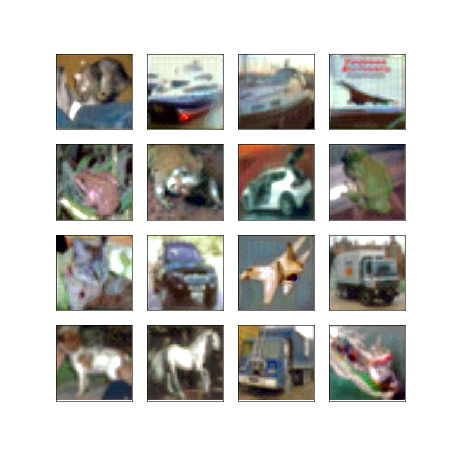
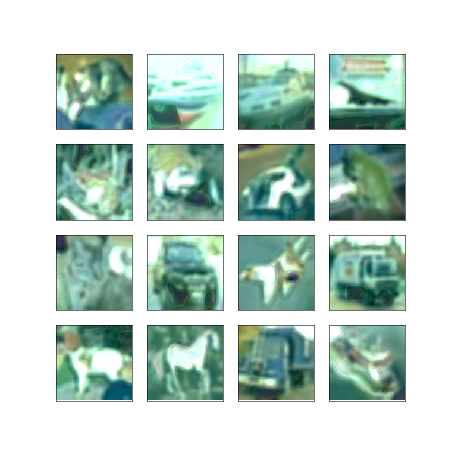
added original residual inference network based on a GitHub implementation

diff --git a/src/train_utils/train.py b/src/train_utils/train.py
@@ -1,4 +1,4 @@
-from ..model import StyleTransferModel
+from ..model import StyleTransferModel, ResidualStyleTransferModel
 import tensorflow as tf
 import matplotlib.pyplot as plt
 import numpy as np
@@ -7,11 +7,15 @@ import numpy as np
 class ModelTrainer:
     def __init__(self,
                  style_image,
+                 residual=False,
                  batch_size=32,
                  input_shape=(256, 256, 3),
                  n_classes=3):
-        self.transfer_model = StyleTransferModel(input_shape=input_shape,
-                                                 n_classes=n_classes)
+        if residual:
+            self.transfer_model = ResidualStyleTransferModel()
+        else:
+            self.transfer_model = StyleTransferModel(input_shape=input_shape,
+                                                     n_classes=n_classes)
         prep_style_image = tf.keras.applications.vgg16.preprocess_input(
             style_image)
         self.style_loss = self.transfer_model.loss_net(prep_style_image)
@@ -49,8 +53,8 @@ class ModelTrainer:
                                                            2)  # frob-norm
         total_var_loss = 1e-4 * tf.reduce_sum(tf.image.total_variation(reco))
         print('Style : ', style_final_loss)
-        print('Feature : ', feature_final_loss)
-        print('TV loss : ', total_var_loss)
+        print('Feat. : ', feature_final_loss)
+        print('TV-l. : ', total_var_loss)
         return style_final_loss + feature_final_loss + total_var_loss
 
     def _gram_matrix(self, tensor):
@@ -76,7 +80,7 @@ class ModelTrainer:
                 self.transfer_model.inference_net.trainable_variables))
 
     def train(self, images, lr=1e-2, epochs=1):
-        self.opt = tf.train.AdamOptimizer(lr, beta1=0.99, epsilon=.1)
+        self.opt = tf.train.AdamOptimizer(lr)
         for epoch in range(epochs):
             for ind, image_batch in enumerate(images):
                 self._train_step(image_batch)

diff --git a/src/networks/original_inference_network.py b/src/networks/original_inference_network.py
@@ -1,0 +1,47 @@
+import tensorflow as tf
+from .residual_block import ResidualBlock
+from .convolutional_block import ConvolutionalBlock
+
+
+class ResidualInferenceNetwork(tf.keras.Model):
+    def __init__(self):
+        super(ResidualInferenceNetwork, self).__init__()
+        self.conv1 = ConvolutionalBlock(32, kernel_size=9, stride=1)
+        self.conv2 = ConvolutionalBlock(64, kernel_size=3, stride=2)
+        self.conv3 = ConvolutionalBlock(128, kernel_size=3, stride=2)
+        self.res1 = ResidualBlock(128)
+        self.res2 = ResidualBlock(128)
+        self.res3 = ResidualBlock(128)
+        self.res4 = ResidualBlock(128)
+        self.res5 = ResidualBlock(128)
+        self.upconv1 = ConvolutionalBlock(64, kernel_size=3, upsample=True)
+        self.upconv2 = ConvolutionalBlock(32, kernel_size=3, upsample=True)
+        self.upconv3 = ConvolutionalBlock(3,
+                                          kernel_size=9,
+                                          normalize=False,
+                                          relu=False)
+
+    def call(self, x):
+        x = self.conv1(x)
+        #print('1 : ', x.get_shape().as_list())
+        x = self.conv2(x)
+        #print('2 : ', x.get_shape().as_list())
+        x = self.conv3(x)
+        #print(x.get_shape().as_list())
+        x = self.res1(x)
+        #print(x.get_shape().as_list())
+        x = self.res2(x)
+        #print(x.get_shape().as_list())
+        x = self.res3(x)
+        #print(x.get_shape().as_list())
+        x = self.res4(x)
+        #print(x.get_shape().as_list())
+        x = self.res5(x)
+        #print(x.get_shape().as_list())
+        x = self.upconv1(x)
+        #print(x.get_shape().as_list())
+        x = self.upconv2(x)
+        #print(x.get_shape().as_list())
+        x = self.upconv3(x)
+        #print(x.get_shape().as_list())
+        return x

diff --git a/src/networks/convolutional_block.py b/src/networks/convolutional_block.py
@@ -1,0 +1,34 @@
+import tensorflow as tf
+from .reflection_pad_layer import ReflectionPadding2D
+
+
+class ConvolutionalBlock(tf.keras.Model):
+    def __init__(self,
+                 out_channels,
+                 kernel_size,
+                 stride=1,
+                 upsample=False,
+                 normalize=True,
+                 relu=True):
+        super(ConvolutionalBlock, self).__init__()
+        self.upsample = upsample
+        self.normalize = normalize
+        self.relu = relu
+        self.reflection_pad = ReflectionPadding2D(
+            (kernel_size // 2, kernel_size // 2))
+        self.conv = tf.keras.layers.Conv2D(out_channels,
+                                           (kernel_size, kernel_size),
+                                           strides=(stride, stride))
+        self.upsample_layer = tf.keras.layers.UpSampling2D(
+            size=(2, 2), interpolation='bilinear')
+
+    def call(self, x):
+        if self.upsample:
+            x = self.upsample_layer(x)
+        x = self.reflection_pad(x)
+        x = self.conv(x)
+        if self.normalize:
+            x = tf.contrib.layers.instance_norm(x)
+        if self.relu:
+            x = tf.nn.relu(x)
+        return x

diff --git a/train_celeba.py b/train_celeba.py
@@ -2,10 +2,12 @@
 import warnings
 warnings.simplefilter(action='ignore', category=FutureWarning)
 
+import os
+os.environ['CUDA_VISIBLE_DEVICES'] = '1'
+
 import tensorflow as tf
 tf.enable_eager_execution()
 import pathlib
-import os
 import glob
 
 import matplotlib.pyplot as plt
@@ -25,6 +27,7 @@ style_image = tf.reshape(style_image,
 style_image = tf.image.resize_images(style_image, size=(WIDTH, HEIGHT))
 
 trainer = ModelTrainer(style_image,
+                       residual=True,
                        input_shape=(WIDTH, HEIGHT, 3),
                        n_classes=3,
                        batch_size=BATCH_SIZE)
@@ -41,4 +44,4 @@ images = [resize_image(str(path)) for path in all_image_paths]
 train = tf.data.Dataset.from_tensor_slices(images).shuffle(BUFFER_SIZE).batch(
     BATCH_SIZE)
 
-trainer.train(train, lr=5e-4, epochs=100)
+trainer.train(train, lr=1e-3, epochs=10)

diff --git a/src/networks/reflection_pad_layer.py b/src/networks/reflection_pad_layer.py
@@ -1,0 +1,18 @@
+import tensorflow as tf
+
+
+class ReflectionPadding2D(tf.keras.layers.Layer):
+    def __init__(self, padding=(1, 1), **kwargs):
+        self.padding = padding
+        self.input_spec = [tf.layers.InputSpec(ndim=4)]
+        super(ReflectionPadding2D, self).__init__(**kwargs)
+
+    def compute_output_shape(self, s):
+        """ If you are using "channels_last" configuration"""
+        return (s[0], s[1] + 2 * self.padding[0], s[2] + 2 * self.padding[1],
+                s[3])
+
+    def call(self, x, mask=None):
+        w_pad, h_pad = self.padding
+        return tf.pad(x, [[0, 0], [h_pad, h_pad], [w_pad, w_pad], [0, 0]],
+                      'REFLECT')

diff --git a/src/model/residual_model.py b/src/model/residual_model.py
@@ -1,0 +1,16 @@
+import tensorflow as tf
+from ..networks import LossNetwork, ResidualInferenceNetwork
+
+
+class ResidualStyleTransferModel(tf.keras.Model):
+    def __init__(self, input_shape=(256, 256, 3), n_classes=3):
+        super(ResidualStyleTransferModel, self).__init__()
+        self.inference_net = ResidualInferenceNetwork()
+        self.loss_net = LossNetwork(input_shape=input_shape)
+        self.loss_net.trainable = False
+
+    def call(self, x):
+        x = tf.keras.applications.vgg16.preprocess_input(x)
+        reco = self.inference_net(x)
+        loss = self.loss_net(reco)
+        return reco, loss

diff --git a/test_residual_inference_net.py b/test_residual_inference_net.py
@@ -12,7 +12,7 @@ tf.enable_eager_execution()
 from tensorflow.keras.datasets.cifar10 import load_data
 from tensorflow import keras
 
-from src import InferenceNetwork
+from src import ResidualInferenceNetwork
 
 IMAGE_SIZE = 128
 
@@ -41,7 +41,7 @@ def mse_loss(x, y):
     return tf.losses.mean_squared_error(x, y)
 
 
-inference_net = InferenceNetwork(n_classes=3)
+inference_net = ResidualInferenceNetwork()
 inference_net.compile(tf.train.AdamOptimizer(1e-3), loss=mse_loss)
 
 inference_net.fit(x=train,

diff --git a/src/networks/residual_block.py b/src/networks/residual_block.py
@@ -1,0 +1,14 @@
+import tensorflow as tf
+from .convolutional_block import ConvolutionalBlock
+
+
+class ResidualBlock(tf.keras.Model):
+    def __init__(self, channels):
+        super(ResidualBlock, self).__init__()
+        self.conv1 = ConvolutionalBlock(channels, 3, 1, False, True, True)
+        self.conv2 = ConvolutionalBlock(channels, 3, 1, False, True, False)
+
+    def call(self, x):
+        _x = self.conv1(x)
+        _x = self.conv2(x)
+        return tf.keras.layers.Add()([_x, x])

diff --git a/src/__init__.py b/src/__init__.py
@@ -1,3 +1,3 @@
-from .networks import InferenceNetwork, LossNetwork
-from .model import StyleTransferModel
+from .networks import InferenceNetwork, LossNetwork, ResidualInferenceNetwork
+from .model import StyleTransferModel, ResidualStyleTransferModel
 from .train_utils import ModelTrainer

diff --git a/src/networks/__init__.py b/src/networks/__init__.py
@@ -1,2 +1,3 @@
 from .inference_network import InferenceNetwork
 from .loss_network_vgg16 import LossNetwork
+from .original_inference_network import ResidualInferenceNetwork

diff --git a/src/model/__init__.py b/src/model/__init__.py
@@ -1,1 +1,2 @@
 from .model import StyleTransferModel
+from .residual_model import ResidualStyleTransferModel
